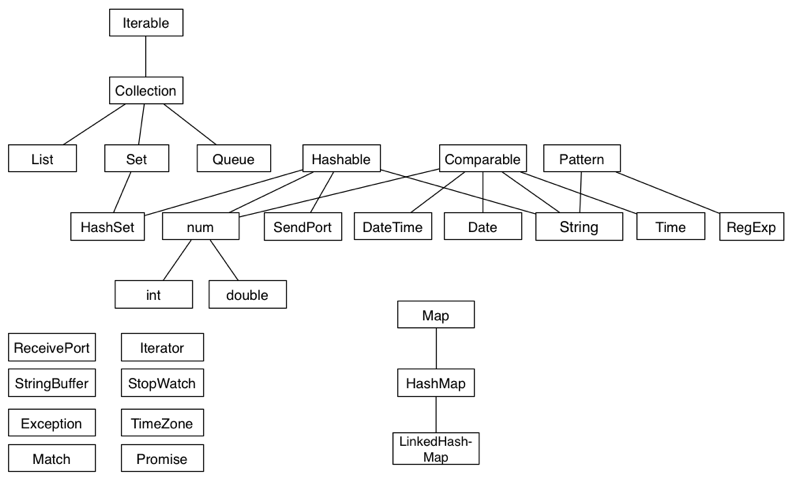
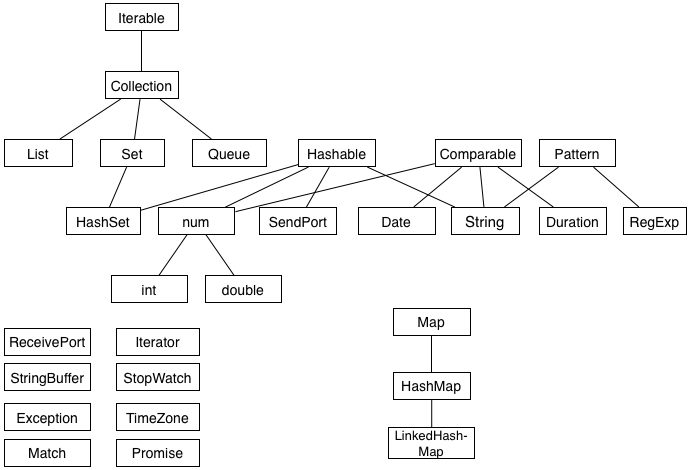
Tech Overview updates (figure, example)

diff --git a/src/site/docs/technical-overview/index.html b/src/site/docs/technical-overview/index.html
@@ -317,9 +317,9 @@ Here is the proposed new MIME type,
   &lt;body&gt;
     &lt;script type="application/dart"&gt;
       main() {
-        HTMLElement element = document.queryOne('#message');
+        Element element = document.getElementById('message');
         element.innerHTML = 'Hello from Dart';
-      }
+      }     
     &lt;/script&gt;
     &lt;div id="message"&gt;&lt;/div&gt;
   &lt;/body&gt;
@@ -399,12 +399,8 @@ Here is an overview of the interface hierarchy for the current Core Library
 </p>
 
 <img src="images/interface-hierarchy.png"
-     alt="interface hierarchy"
-     width="" height="">
-
-<p class="comment">
-{PENDING: fix figure to fit in page}
-</p>
+     alt="interface hierarchy diagram"
+     width="688" height="470">
 </section>
 
 
